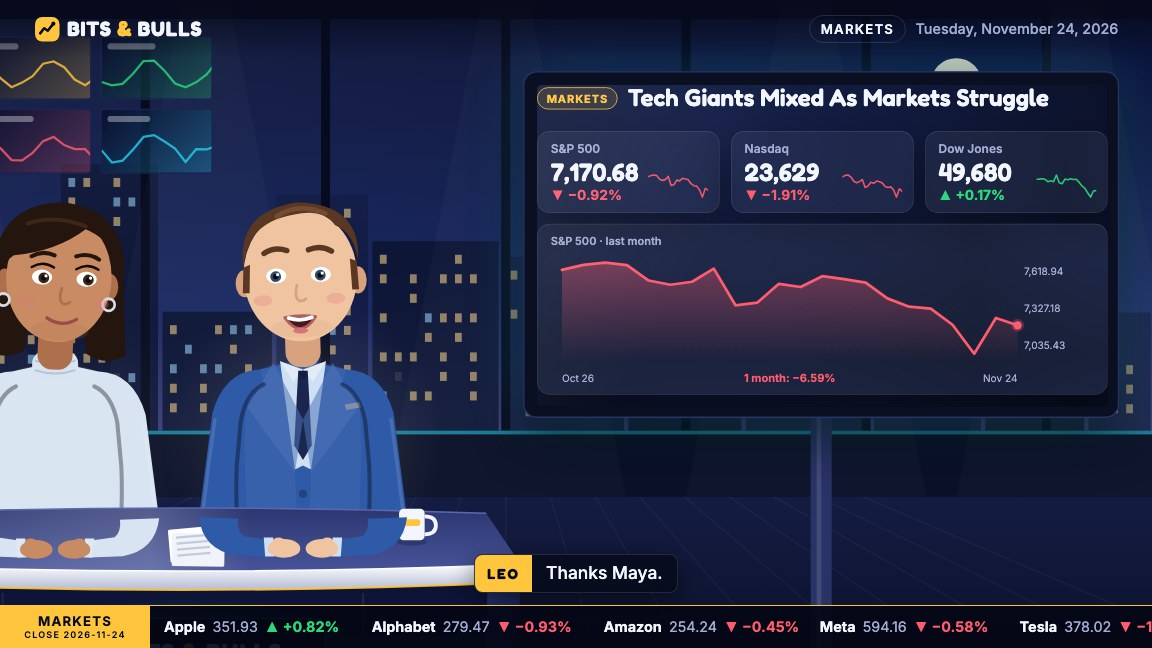
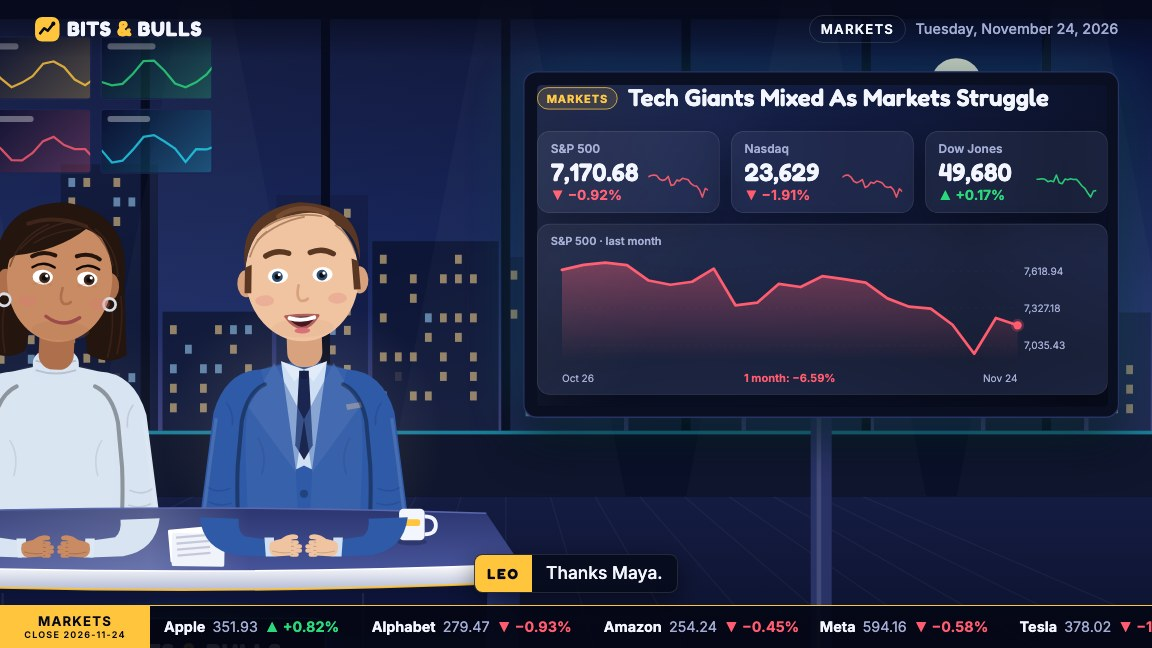
Make the anchors more expressive and lifelike
Expressions and gestures are driven by the script: questions raise the brows
and tilt the head, exclamations widen the smile, and emphasis words trigger a
hand gesture and a stronger nod. Listeners smile, glance down at their notes
and both anchors shift in their chairs. Adds hair strands, clothing folds and
fingered hands, and refreshes the README screenshots.

diff --git a/studio/src/components/Presenter.tsx b/studio/src/components/Presenter.tsx
@@ -1,5 +1,6 @@
 import React from "react";
 import { interpolate, useCurrentFrame } from "remotion";
+import { type Delivery, NO_DELIVERY } from "./Voice";
 import { lighten, type Outfit, outfitFor } from "./wardrobe";
 
 export type PresenterId = "a" | "b";
@@ -29,6 +30,20 @@ const LOOKS: Record<PresenterId, Look> = {
   },
 };
 
+/** Every ~9s a listening anchor glances down at their notes for about a second. */
+const glanceAmount = (frame: number, offset: number) => {
+  const t = (frame + offset * 3) % 270;
+  return t < 34 ? Math.sin((t / 34) * Math.PI) : 0;
+};
+
+/** An occasional smooth posture shift in the chair (about every 14s). */
+const chairShift = (frame: number, offset: number) => {
+  const cycle = 420;
+  const t = ((frame + offset * 5) % cycle) / 40;
+  const dir = Math.floor((frame + offset * 5) / cycle) % 2 === 0 ? 1 : -1;
+  return t < 1 ? dir * Math.sin(t * Math.PI) : 0;
+};
+
 const blinkAmount = (frame: number, offset: number) => {
   const cycle = 120;
   const jitter = [0, 41, 17, 67, 29][Math.floor((frame + offset) / cycle) % 5];
@@ -37,8 +52,16 @@ const blinkAmount = (frame: number, offset: number) => {
 };
 
 const MayaHairBack: React.FC<{ c: Look }> = ({ c }) => (
-  <path d="M104 196 Q96 86 200 78 Q304 86 296 196 L304 300 Q276 318 246 300 L238 250 L162 250 L154 300
-           Q124 318 96 300 Z" fill={c.hair} />
+  <g>
+    <path d="M104 196 Q96 86 200 78 Q304 86 296 196 L304 300 Q276 318 246 300 L238 250 L162 250 L154 300
+             Q124 318 96 300 Z" fill={c.hair} />
+    <g stroke={c.hairLight} strokeWidth="2.5" fill="none" strokeLinecap="round" opacity="0.5">
+      <path d="M108 214 Q102 256 110 298" />
+      <path d="M120 236 Q116 270 124 304" />
+      <path d="M292 214 Q298 256 290 298" />
+      <path d="M280 236 Q284 270 276 304" />
+    </g>
+  </g>
 );
 
 const MayaHairFront: React.FC<{ c: Look }> = ({ c }) => (
@@ -47,6 +70,13 @@ const MayaHairFront: React.FC<{ c: Look }> = ({ c }) => (
           fill={c.hair} />
     <path d="M150 112 Q190 96 236 112" stroke={c.hairLight} strokeWidth="6" fill="none" strokeLinecap="round"
           opacity="0.7" />
+    <g stroke={c.hairLight} strokeWidth="2.5" fill="none" strokeLinecap="round" opacity="0.55">
+      <path d="M140 150 Q170 114 214 106" />
+      <path d="M126 176 Q138 132 180 112" />
+      <path d="M250 116 Q282 140 286 184" />
+      <path d="M236 112 Q266 128 278 168" />
+      <path d="M160 140 Q190 120 228 116" />
+    </g>
   </g>
 );
 
@@ -56,6 +86,12 @@ const LeoHair: React.FC<{ c: Look }> = ({ c }) => (
              Q120 150 116 176 Z" fill={c.hair} />
     <path d="M168 102 Q200 82 240 100" stroke={c.hairLight} strokeWidth="7" fill="none" strokeLinecap="round"
           opacity="0.8" />
+    <g stroke={c.hairLight} strokeWidth="2.5" fill="none" strokeLinecap="round" opacity="0.55">
+      <path d="M146 118 Q186 94 232 104" />
+      <path d="M136 136 Q166 110 206 104" />
+      <path d="M252 118 Q272 132 280 160" />
+      <path d="M124 160 Q132 136 150 124" />
+    </g>
     <path d="M116 176 L114 214 L124 214 L126 172 Z" fill={c.hair} />
     <path d="M284 172 L286 214 L276 214 L274 168 Z" fill={c.hair} />
   </g>
@@ -75,11 +111,24 @@ const Torso: React.FC<{ id: PresenterId; outfit: Outfit }> = ({ id, outfit }) =>
   const sheen = lighten(jacket, 0.16);
   const body = "M102 620 L96 470 Q90 360 136 328 L200 314 L264 328 Q310 360 304 470 L298 620 Z";
   const sleeve = sleeveColor(id, outfit);
+  const folds = (
+    <g stroke="#000000" strokeOpacity="0.08" strokeWidth="2.5" fill="none" strokeLinecap="round">
+      <path d="M132 430 Q146 452 138 482" />
+      <path d="M268 430 Q254 452 262 482" />
+      <path d="M150 566 Q200 580 250 566" />
+      <path d="M160 590 Q200 602 240 590" />
+    </g>
+  );
   const arms = (
     <g>
       <path d={UPPER_ARMS.l} fill={sleeve} />
       <path d={UPPER_ARMS.r} fill={sleeve} />
       <path d={ARM_SEAMS} stroke="#00000059" strokeWidth="6" fill="none" strokeLinecap="round" />
+      <g stroke="#000000" strokeOpacity="0.1" strokeWidth="2.5" fill="none" strokeLinecap="round">
+        <path d="M58 502 Q72 512 90 504 M60 524 Q74 532 92 526" />
+        <path d="M342 502 Q328 512 310 504 M340 524 Q326 532 308 526" />
+        <path d="M86 378 Q96 392 94 410 M314 378 Q304 392 306 410" />
+      </g>
       <path d="M70 400 Q60 470 52 540 M330 400 Q340 470 348 540" stroke="#FFFFFF" strokeOpacity="0.12" strokeWidth="5" fill="none" />
     </g>
   );
@@ -113,6 +162,7 @@ const Torso: React.FC<{ id: PresenterId; outfit: Outfit }> = ({ id, outfit }) =>
             )}
           </g>
         )}
+        {folds}
         {arms}
       </g>
     );
@@ -152,6 +202,7 @@ const Torso: React.FC<{ id: PresenterId; outfit: Outfit }> = ({ id, outfit }) =>
       {id === "b" && style === "tie" && !pattern && (
         <path d="M262 380 L284 376 L286 384 L264 388 Z" fill={lighten(accent, 0.5)} opacity="0.9" />
       )}
+      {folds}
       {arms}
     </g>
   );
@@ -159,8 +210,26 @@ const Torso: React.FC<{ id: PresenterId; outfit: Outfit }> = ({ id, outfit }) =>
 
 const SKIN_TONES: Record<PresenterId, string> = { a: "#C98B63", b: "#F0C4A1" };
 
+/** A relaxed hand resting on the desk, fingers pointing toward the body's centre line. */
+const Hand: React.FC<{ x: number; y: number; flip: boolean; skin: string; open: number }> = ({ x, y, flip, skin, open }) => {
+  return (
+    <g transform={`translate(${x} ${y}) scale(${flip ? -1 : 1} 1)`}>
+      <path d="M-24 -8 Q-12 -16 6 -13 L14 -8 Q18 2 12 10 L-16 12 Q-28 8 -24 -8 Z" fill={skin} />
+      {[-9, -3, 3, 9].map((fy, i) => (
+        <rect key={i} x={8 + Math.abs(fy) * -0.3} y={fy - 3 + open * (fy * 0.35)} width={18 - Math.abs(fy) * 0.5 + open * 4}
+              height="6.5" rx="3.2" fill={skin} transform={`rotate(${fy * 2 * open} 8 ${fy})`} />
+      ))}
+      <path d="M-10 -12 Q4 -24 16 -20 Q20 -17 16 -14 Q6 -14 -2 -8 Z" fill={skin} />
+      <g stroke="#000000" strokeOpacity="0.16" strokeWidth="1.6" fill="none" strokeLinecap="round">
+        <path d="M8 -9 L10 -9 M8 -3 L11 -3 M8 3 L11 3 M8 9 L10 9" />
+        <path d="M-20 4 Q-8 8 6 6" />
+      </g>
+    </g>
+  );
+};
+
 /** Forearms and hands, drawn on top of the desk surface so they rest on it. */
-const Forearms: React.FC<{ id: PresenterId; outfit: Outfit; lift: number }> = ({ id, outfit, lift }) => {
+const Forearms: React.FC<{ id: PresenterId; outfit: Outfit; lift: number; open: number }> = ({ id, outfit, lift, open }) => {
   const sleeve = sleeveColor(id, outfit);
   const cuff = outfit.style === "blazer" || outfit.style === "tie" || outfit.style === "open-collar"
     ? outfit.top : lighten(sleeve, 0.15);
@@ -170,14 +239,12 @@ const Forearms: React.FC<{ id: PresenterId; outfit: Outfit; lift: number }> = ({
       <g>
         <path d="M46 546 Q52 594 100 602 L150 604 L154 580 L112 574 Q102 566 104 548 Z" fill={sleeve} />
         <path d="M142 576 L156 576 L158 604 L144 604 Z" fill={cuff} />
-        <ellipse cx="172" cy="592" rx="24" ry="14" fill={skin} />
-        <ellipse cx="164" cy="582" rx="9" ry="6" fill={skin} />
+        <Hand x={174} y={592} flip={false} skin={skin} open={0} />
       </g>
       <g transform={`rotate(${-lift} 320 556)`}>
         <path d="M354 546 Q348 594 300 602 L250 604 L246 580 L288 574 Q298 566 296 548 Z" fill={sleeve} />
         <path d="M258 576 L244 576 L242 604 L256 604 Z" fill={cuff} />
-        <ellipse cx="228" cy="592" rx="24" ry="14" fill={skin} />
-        <ellipse cx="236" cy="582" rx="9" ry="6" fill={skin} />
+        <Hand x={226} y={592} flip skin={skin} open={open} />
       </g>
     </g>
   );
@@ -194,37 +261,47 @@ export const Presenter: React.FC<{
   frameOverride?: number;
   seed?: string;
   part?: "body" | "hands";
-}> = ({ id, mouth, look, speaking, size = 430, frameOverride, seed = "default", part = "body" }) => {
+  delivery?: Delivery;
+}> = ({ id, mouth, look, speaking, size = 430, frameOverride, seed = "default", part = "body", delivery = NO_DELIVERY }) => {
   const current = useCurrentFrame();
   const frame = frameOverride ?? current;
   const c = LOOKS[id];
   const outfit = outfitFor(id, seed);
+  const d = delivery;
   const blink = blinkAmount(frame, c.blinkOffset);
   const breathe = Math.sin(frame / 22 + c.blinkOffset) * 1.5;
-  const nod = speaking ? Math.sin(frame / 7) * 1.6 * (0.4 + mouth) : 0;
-  const tilt = look * 4 + Math.sin(frame / 53 + c.blinkOffset) * 1.2 + nod * 0.5;
+  const glance = speaking ? 0 : glanceAmount(frame, c.blinkOffset);
+  const seat = Math.sin(frame / 170 + c.blinkOffset) * 2.5 + chairShift(frame, c.blinkOffset) * 5;
+  const nod = speaking ? Math.sin(frame / 7) * 1.6 * (0.4 + mouth) + d.emphasis * 4 : 0;
+  const tilt = look * 4 + Math.sin(frame / 53 + c.blinkOffset) * 1.2 + nod * 0.5
+    + d.question * 6 * (id === "a" ? 1 : -1) + (speaking ? 0 : Math.sin(frame / 90 + c.blinkOffset) * 1.5);
   const shift = look * 9;
-  const eyeOpen = interpolate(blink, [0, 1], [1, 0.08]);
-  const brow = speaking ? -mouth * 4 : 0;
+  const eyeOpen = interpolate(blink, [0, 1], [1, 0.08]) * (1 - 0.4 * glance) * (1 + 0.12 * d.exclaim);
+  const smile = Math.min(1, 0.3 + (speaking ? 0.1 : 0.3) + d.exclaim * 0.5 + d.emphasis * 0.15);
+  const brow = -(d.question * 8 + d.emphasis * 4 + d.exclaim * 4) + glance * 2;
   const mouthOpen = mouth * 26;
-  const mouthW = 40 + mouth * 6;
+  const mouthW = 40 + mouth * 6 + smile * 6;
   const mx = 200 + shift * 0.9;
   const my = 252;
+  const corner = smile * 4;
 
   return (
     <svg width={size} height={(size * PRESENTER_VIEW.h) / PRESENTER_VIEW.w}
          viewBox={`0 0 ${PRESENTER_VIEW.w} ${PRESENTER_VIEW.h}`} style={{ overflow: "visible" }}>
       {part === "hands" ? (
         <g transform={`translate(0 ${breathe * 0.5})`}>
-          <Forearms id={id} outfit={outfit} lift={speaking ? Math.max(0, Math.sin(frame / 11)) * 7 * (0.4 + mouth) : 0} />
+          <g transform={`translate(${seat * 0.4} 0)`}>
+            <Forearms id={id} outfit={outfit} open={d.emphasis}
+                      lift={speaking ? Math.max(0, Math.sin(frame / 11)) * 6 * (0.4 + mouth) + d.emphasis * 16 : 0} />
+          </g>
         </g>
       ) : (
       <>
-      <g transform={`translate(0 ${breathe})`}>
+      <g transform={`translate(${seat * 0.6} ${breathe})`}>
         <Torso id={id} outfit={outfit} />
       </g>
 
-      <g transform={`translate(0 ${breathe * 0.6 + nod}) rotate(${tilt} 200 300)`}>
+      <g transform={`translate(${seat} ${breathe * 0.6 + nod + glance * 6}) rotate(${tilt} 200 300)`}>
         {id === "a" && <MayaHairBack c={c} />}
         <rect x="174" y="250" width="52" height="76" rx="22" fill={c.skinShade} />
         <ellipse cx={200 - c.faceRx - shift * 0.3} cy="200" rx="13" ry="20" fill={c.skinShade} />
@@ -242,15 +319,15 @@ export const Presenter: React.FC<{
 
         <g transform={`translate(${shift} 0)`}>
           <g stroke={c.hair} strokeWidth={id === "b" ? 8 : 6} strokeLinecap="round" fill="none">
-            <path d={`M150 ${160 + brow} Q166 ${150 + brow} 184 ${157 + brow}`} />
-            <path d={`M216 ${157 + brow} Q234 ${150 + brow} 250 ${160 + brow}`} />
+            <path d={`M150 ${160 + brow * 0.8} Q166 ${150 + brow} 184 ${157 + brow - d.question * 3}`} />
+            <path d={`M216 ${157 + brow - d.question * 3} Q234 ${150 + brow} 250 ${160 + brow * 0.8}`} />
           </g>
           {[167, 233].map((ex) => (
             <g key={ex} transform={`translate(${ex} 190) scale(1 ${eyeOpen})`}>
               <ellipse cx="0" cy="0" rx="15" ry="11" fill="#FFFFFF" />
-              <circle cx={look * 3} cy="1" r="8" fill={c.iris} />
-              <circle cx={look * 3} cy="1" r="4" fill="#0B0B12" />
-              <circle cx={look * 3 + 3} cy="-2" r="2.4" fill="#FFFFFF" />
+              <circle cx={look * 3} cy={1 + glance * 5} r="8" fill={c.iris} />
+              <circle cx={look * 3} cy={1 + glance * 5} r="4" fill="#0B0B12" />
+              <circle cx={look * 3 + 3} cy={-2 + glance * 5} r="2.4" fill="#FFFFFF" />
             </g>
           ))}
           {id === "a" &&
@@ -258,6 +335,10 @@ export const Presenter: React.FC<{
               <path key={ex} d={`M${ex - 16} ${185 - 9 * eyeOpen} Q${ex} ${175 - 10 * eyeOpen} ${ex + 17} ${184 - 9 * eyeOpen}`}
                     stroke="#120A08" strokeWidth="3.5" fill="none" strokeLinecap="round" />
             ))}
+          {smile > 0.45 && [167, 233].map((ex) => (
+            <path key={ex} d={`M${ex - 13} 201 Q${ex} ${196 - smile * 3} ${ex + 13} 201`} stroke={c.skinShade}
+                  strokeWidth="3" fill="none" strokeLinecap="round" opacity={(smile - 0.45) * 1.6} />
+          ))}
           <path d="M197 205 Q192 224 200 228 Q207 229 210 225" stroke={c.skinShade} strokeWidth="4"
                 fill="none" strokeLinecap="round" />
           <ellipse cx="146" cy="226" rx="14" ry="8" fill="#E0757A" opacity="0.28" />
@@ -266,8 +347,8 @@ export const Presenter: React.FC<{
 
         {mouth > 0.06 ? (
           <g>
-            <path d={`M${mx - mouthW / 2} ${my} Q${mx} ${my - 4} ${mx + mouthW / 2} ${my}
-                      Q${mx} ${my + 8 + mouthOpen} ${mx - mouthW / 2} ${my} Z`}
+            <path d={`M${mx - mouthW / 2} ${my - corner} Q${mx} ${my - 4} ${mx + mouthW / 2} ${my - corner}
+                      Q${mx} ${my + 8 + mouthOpen} ${mx - mouthW / 2} ${my - corner} Z`}
                   fill="#4A1620" stroke={c.lips} strokeWidth="4" strokeLinejoin="round" />
             <path d={`M${mx - mouthW / 2 + 6} ${my + 1} Q${mx} ${my + 2 + mouthOpen * 0.18} ${mx + mouthW / 2 - 6} ${my + 1}`}
                   stroke="#FFFFFF" strokeWidth={Math.min(6, 2 + mouthOpen * 0.25)} fill="none" strokeLinecap="round" />
@@ -275,8 +356,8 @@ export const Presenter: React.FC<{
                      fill="#D9707A" />
           </g>
         ) : (
-          <path d={`M${mx - 22} ${my - 2} Q${mx} ${my + 12} ${mx + 22} ${my - 2}`} stroke={c.lips}
-                strokeWidth="5" fill="none" strokeLinecap="round" />
+          <path d={`M${mx - 22 - smile * 5} ${my - 2 - corner} Q${mx} ${my + 8 + smile * 9} ${mx + 22 + smile * 5} ${my - 2 - corner}`}
+                stroke={c.lips} strokeWidth="5" fill="none" strokeLinecap="round" />
         )}
       </g>
       </>

diff --git a/studio/src/components/Voice.tsx b/studio/src/components/Voice.tsx
@@ -2,16 +2,56 @@ import React, { createContext, useContext } from "react";
 import { Html5Audio, staticFile, useCurrentFrame } from "remotion";
 import type { Caption } from "../types";
 
-type VoiceState = { a: number; b: number; speaker: "a" | "b" | null };
+/** How an anchor is delivering the current line; drives expressions and gestures. */
+export type Delivery = { emphasis: number; question: number; exclaim: number };
 
-const VoiceContext = createContext<VoiceState>({ a: 0, b: 0, speaker: null });
+export const NO_DELIVERY: Delivery = { emphasis: 0, question: 0, exclaim: 0 };
+
+type VoiceState = {
+  a: number;
+  b: number;
+  speaker: "a" | "b" | null;
+  delivery: Record<"a" | "b", Delivery>;
+};
+
+const VoiceContext = createContext<VoiceState>({
+  a: 0, b: 0, speaker: null, delivery: { a: NO_DELIVERY, b: NO_DELIVERY },
+});
 
 export const useVoice = () => useContext(VoiceContext);
+
+const EMPHASIS = /^(\d|record|biggest|first|new|major|billion|million|surge\w*|plung\w*|jump\w*|soar\w*|tumbl\w*|fell|rose|launch\w*|breakthrough|huge|massive|today|now|only|never|every|all|top|lead\w*)$/i;
 
 const synthetic = (frame: number) =>
   0.25 + 0.55 * Math.abs(Math.sin(frame * 0.75) * Math.cos(frame * 0.31));
 
-/** Plays the narration and exposes each anchor's mouth openness (precomputed per frame). */
+const bell = (distance: number, width: number) => Math.max(0, 1 - (distance / width) ** 2);
+
+const deliveryFor = (cap: Caption | undefined, frame: number): Delivery => {
+  if (!cap) return NO_DELIVERY;
+  const len = Math.max(1, cap.endFrame - cap.startFrame);
+  const words = cap.text.split(/\s+/);
+  const total = cap.text.length || 1;
+  let offset = 0;
+  let emphasis = 0;
+  for (const raw of words) {
+    const word = raw.replace(/[^\w%.-]/g, "");
+    const at = cap.startFrame + (offset / total) * len;
+    if (EMPHASIS.test(word)) emphasis = Math.max(emphasis, bell(frame - at - 4, 12));
+    offset += raw.length + 1;
+  }
+  const tail = (frame - cap.startFrame) / len;
+  const ending = Math.min(1, Math.max(0, (tail - 0.35) / 0.4));
+  const after = frame > cap.endFrame ? Math.max(0, 1 - (frame - cap.endFrame) / 18) : 1;
+  const text = cap.text.trim();
+  return {
+    emphasis,
+    question: text.endsWith("?") ? ending * after : 0,
+    exclaim: text.endsWith("!") ? ending * after : 0,
+  };
+};
+
+/** Plays the narration and exposes each anchor's mouth openness and delivery, per frame. */
 export const Voice: React.FC<{
   audioFile: string | null;
   mouths: Record<string, number[]>;
@@ -21,9 +61,17 @@ export const Voice: React.FC<{
   const frame = useCurrentFrame();
   const active = captions.find((c) => frame >= c.startFrame && frame < c.endFrame);
   const recent = [...captions].reverse().find((c) => frame >= c.startFrame);
+  const lingering = recent && frame < recent.endFrame + 18 ? recent : undefined;
   const level = (id: "a" | "b") =>
     mouths[id]?.length ? (mouths[id][frame] ?? 0) : active?.speaker === id ? synthetic(frame) : 0;
-  const state: VoiceState = { a: level("a"), b: level("b"), speaker: (active ?? recent)?.speaker ?? null };
+  const current = active ?? lingering;
+  const delivery = (id: "a" | "b") => (current?.speaker === id ? deliveryFor(current, frame) : NO_DELIVERY);
+  const state: VoiceState = {
+    a: level("a"),
+    b: level("b"),
+    speaker: (active ?? recent)?.speaker ?? null,
+    delivery: { a: delivery("a"), b: delivery("b") },
+  };
   return (
     <VoiceContext.Provider value={state}>
       {audioFile && <Html5Audio src={staticFile(audioFile)} />}

diff --git a/studio/src/components/Newsroom.tsx b/studio/src/components/Newsroom.tsx
@@ -272,7 +272,7 @@ const Presenters: React.FC<{ seed: string; part: "body" | "hands" }> = ({ seed, 
       {(["a", "b"] as const).map((id) => (
         <div key={id} style={{ position: "absolute", left: SEAT[id] - PRESENTER_SIZE / 2, top: PRESENTER_TOP }}>
           <Presenter id={id} mouth={voice[id]} look={look(id)} speaking={voice.speaker === id}
-                     size={PRESENTER_SIZE} seed={seed} part={part} />
+                     size={PRESENTER_SIZE} seed={seed} part={part} delivery={voice.delivery[id]} />
         </div>
       ))}
     </>

diff --git a/README.md b/README.md
@@ -71,6 +71,7 @@ config change, not a rewrite.
 | ✅ **Grounded output** | Deterministic checks reject numbers that don't match the data and names that aren't in the source |
 | 🎙 **Two-anchor dialogue** | Distinct voices, hand-offs and reactions, speaker-tagged captions |
 | 🎬 **Broadcast look** | Newsroom set, big TV on a stand, camera cuts, news-alert bumpers, ticker, lower thirds |
+| 🎭 **Expressive anchors** | Script-driven expressions, emphasis gestures, glances at notes, natural posture shifts |
 | 👔 **Daily wardrobe** | Each anchor gets a different seeded outfit every episode |
 | ⏱ **Hard 3-minute cap** | The Producer measures real audio and drops the lowest-ranked story if needed |
 | 💸 **$0 to run** | Local LLM and TTS; deterministic fallbacks keep the run going if the model fails |
@@ -199,9 +200,12 @@ React), so there are no stock assets and nothing to license.
 - **Virtual camera:** shots are planned from caption timing: wide establishing shot, desk
   two-shot, speaker close-ups, "anchor beside the screen", and full-screen graphics for alerts and
   charts, each with a slow drift.
-- **Anchors:** original illustrated characters with blinking, breathing, nods, gaze toward the
-  speaker and loudness-driven lip-sync from per-anchor envelopes precomputed in Python, so renders
-  are deterministic.
+- **Anchors:** original illustrated characters with loudness-driven lip-sync from per-anchor
+  envelopes precomputed in Python, so renders are deterministic. Delivery is read from the script:
+  questions raise the brows and tilt the head, exclamations widen the smile, and emphasis words
+  (numbers, "record", "launch", "surge"…) trigger a hand gesture and a stronger nod. Listeners smile,
+  turn toward the speaker and glance down at their notes; both anchors blink, breathe and shift in
+  their chairs.
 - **Graphics:** animated index cards, a one-month chart, top movers, story cards, news-alert
   bumpers, a scrolling ticker and speaker-tagged lower thirds.
 - **Thumbnail:** a separate 1280×720 composition highlighting the day's biggest mover.
@@ -343,7 +347,7 @@ This project is built to make trustworthy content. Before monetizing a channel:
 
 ## Roadmap
 
-**v1 (this release):** local daily production with free components.
+**v1:** local daily production with free components, expressive two-anchor newsroom.
 
 **Next: cloud automation on AWS**
 
@@ -365,7 +369,6 @@ flowchart LR
 - [ ] Optional human-approval step, then upload through the YouTube Data API
 - [ ] Licensed market-data provider
 - [ ] Premium voice provider (ElevenLabs/OpenAI TTS) behind the existing `TtsEngine` interface
-- [ ] Richer character animation: expressions, gestures on emphasis, glances at notes
 - [ ] Optional photoreal presenters through an AI-avatar provider
 - [ ] Music bed and per-episode intro sequence
 
